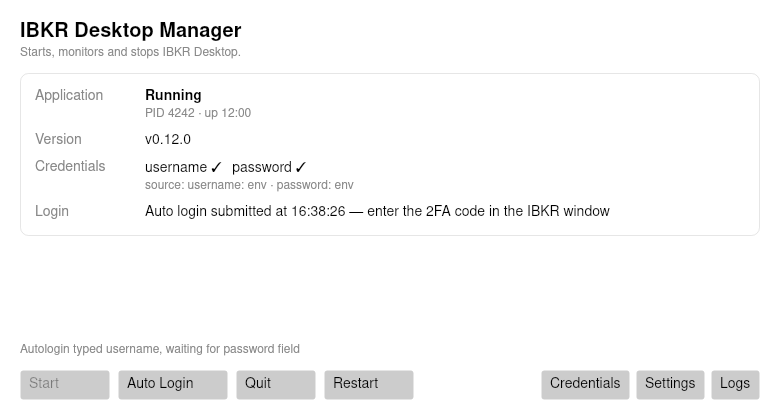
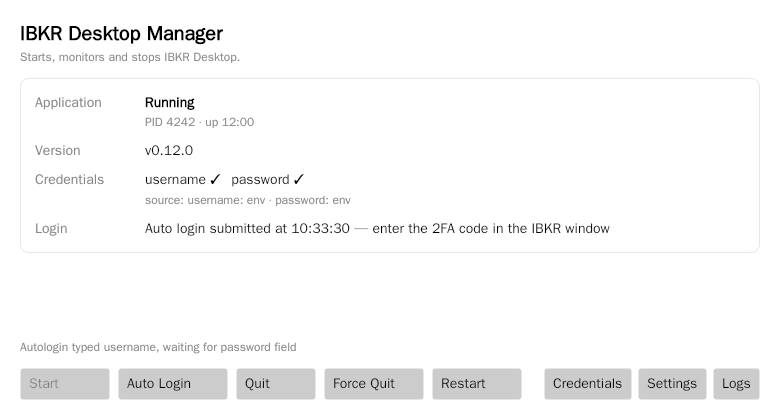
docs: graceful quit, force quit and the measured close behaviour

diff --git a/docs/design.md b/docs/design.md
@@ -167,8 +167,13 @@ runs inside the app's UI thread and gave the real app a measurable slow-down (se
   deeply. Nothing inspects the app between clicks.
 5. **Stop at 2FA**: never attempt to solve it. Report "awaiting 2FA" in the outcome of the click; the
    manager does not monitor the app afterwards.
-6. **Quit**: post `WM_CLOSE` to the main window → wait 15 s → `Kill(entireProcessTree: true)`.
-   Log which path was taken.
+6. **Quit** (`ICloseConfirmationPrompt`): post `WM_CLOSE` → wait `GracefulShutdownTimeout`; if the app
+   is still there, look for its "really quit?" dialog and press the confirming button (a window-targeted
+   click, then wait again). **Never** escalate to `TerminateProcess` — the app may still be flushing
+   state, and killing a logged-in session is exactly what the user asked us to stop doing. Staying open
+   is reported as such; `Force Quit` is the explicit termination, and `Restart` refuses rather than
+   kill. Measured on the real app: at the login screen `WM_CLOSE` exits in ~1.5 s with no dialog, so the
+   confirmation path only runs on a logged-in session (not reproducible in CI without an account).
 
 Failure policy: any injection step fails → log the reason, show an error banner, leave the app alone so
 the user can finish manually. Never retry-loop credentials (lockout risk).
@@ -204,7 +209,7 @@ IBKR Desktop Manager                                   [–][□][×]
   Credentials       Username ✓   Password ✓   (env)   [ Set up… ]
   Login state       ● Awaiting 2FA — finish in the app window
 ──────────────────────────────────────────────────────────────
-  [ Start ]  [ Auto Login ]  [ Quit ]  [ Restart ]   [ Logs ] [ ⚙ ]
+  [ Start ] [ Auto Login ] [ Quit ] [ Force Quit ] [ Restart ]   [ Logs ] [ ⚙ ]
 ──────────────────────────────────────────────────────────────
   ⚠ Auto Login blocked: IBKR_PASSWORD is not set
   last: autologin typed username, waiting for password field
@@ -216,7 +221,10 @@ IBKR Desktop Manager                                   [–][□][×]
 - `[ Set up… ]` on the credentials row opens the dialog in §7.1 (add / replace / clear / test presence).
 - Rows use green/amber/red dots; credentials row shows presence + source (`env`), never
   masked values (a mask still leaks length).
-- `Start`/`Auto Login` disabled unless the app is installed; `Quit`/`Restart` disabled when stopped.
+- `Start`/`Auto Login` disabled unless the app is installed; `Quit`, `Force Quit` and `Restart` are
+  disabled when stopped.
+- `Quit` is graceful by design and may end with the app still running (if it refuses to close);
+  `Force Quit` is the destructive one and says so in its tooltip.
 - Window-first; there is no tray icon in v0.1.0 (the window is the app), and closing the window
   exits the app — no close-to-tray surprise.
 - Settings: exe path override, env var names, login driver, timeouts, start-with-Windows.
@@ -346,7 +354,7 @@ IBKR ToS/account-lockout concerns if auto-login retries (hence no retries).
 
 ---
 
-## 11. Implementation status (v0.2.1)
+## 11. Implementation status (v0.3.0)
 
 What shipped, and where it lives:
 
@@ -361,7 +369,7 @@ What shipped, and where it lives:
 | Login drivers | `Platform.Windows/PointerLoginDriver.cs` (`pointer`: click + type, verified) → `UiaLoginDriver.cs` (`uia`: value assignment) → `SendInputLoginDriver.cs` (`sendinput`: blind typing) → `Core/ManualLoginDriver.cs`, chained by `Core/LoginDriverChain.cs` |
 | Login-form / 2FA classification (during Auto Login only) | `Core/UiAutomation.cs` (`UiClassifier`) + `Platform.Windows/UiaSession.cs` |
 | GUI | `App/Views/MainWindow.axaml`, `CredentialsWindow.axaml`, `SettingsWindow.axaml` |
-| Tests | 158 xUnit tests, including headless Skia renders of all three windows, a Windows integration suite that drives a stub app through the real platform layer, and a real-app suite run by the probe workflow |
+| Tests | 163 xUnit tests, including headless Skia renders of all three windows, a Windows integration suite that drives a stub app through the real platform layer, and a real-app suite run by the probe workflow |
 | CI / release | `.github/workflows/ci.yml`, `release.yml` |
 
 Deliberate gaps (also listed in `docs/ibkr-app-notes.md`): tray icon, start-with-Windows,

diff --git a/AGENTS.md b/AGENTS.md
@@ -8,7 +8,7 @@ that still need a real Windows install to verify.
 
 ```bash
 dotnet build                                    # whole solution (net8.0, warnings are errors)
-dotnet test                                     # 158 tests, runs on Linux/Windows/macOS
+dotnet test                                     # 163 tests, runs on Linux/Windows/macOS
 dotnet format IbkrDesktopManager.sln --verify-no-changes
 dotnet run --project src/IbkrManager.App        # needs a display; shows "Windows is required" off-Windows
 dotnet publish src/IbkrManager.App -c Release -r win-x64 --self-contained \
@@ -95,6 +95,11 @@ Facts learned the hard way (do not regress them):
   Windows mark the window "not responding", and a shutdown then stalls on a screen that needs someone
   at the console. `ShutdownHook` answers `WM_QUERYENDSESSION` and must stay the first thing that
   happens for that message; test the hook by hand on Windows (it cannot run on Linux CI).
+- `Quit` must never call `KillAsync` — it posts `WM_CLOSE`, answers the app's own confirmation
+  (`UiCloseConfirmation`, buttons only inside a *non-main* window) and reports when the app stays open.
+  `Force Quit` is the only destructive path, and `Restart` refuses instead of killing. At the login
+  screen the real app exits on `WM_CLOSE` in ~1.5 s with no dialog (measured in CI); the confirmation
+  is a logged-in-session behaviour that cannot be reproduced without an account.
 - The manager is stateless about the app's UI on purpose: status comes from the process, and the only
   UI inspection happens inside an Auto Login click. Do not reintroduce a live login/2FA/logged-in state
   machine — that is what made the real app unresponsive in 0.1.3.

diff --git a/docs/usage.md b/docs/usage.md
@@ -96,8 +96,14 @@ Set the login driver to `manual` to make Auto Login report "disabled in Settings
 
 ## 4. Quit, restart and closing the manager
 
-- **Quit** posts `WM_CLOSE`, waits 15 seconds, then terminates the process tree.
-- **Restart** = Quit + Start.
+- **Quit** asks the app to close (`WM_CLOSE`) and waits. If IBKR Desktop puts up its own confirmation —
+  it does so on a running session, not at the login screen — the manager reads the dialog, presses its
+  confirming button and waits again, so the app gets to log out and flush its state. Quit **never
+  terminates the process** on its own. If the app stays open, the manager says so and leaves it alone.
+- **Force Quit** terminates the process tree immediately. Use it when the app will not close, or when
+  you do not care about its cleanup. Nothing else in the manager kills the app.
+- **Restart** = Quit + Start. Because Quit never kills, a Restart is refused (with an explanation)
+  while the app would not close; Force Quit and then Start instead.
 - Closing the manager window stops the IBKR Desktop instance the manager started. This is deliberate:
   the app is assigned to a kill-on-close job object so a trading session cannot be left orphaned.
   If you want the app to outlive the manager, start it yourself — the manager will then attach to it

diff --git a/docs/ibkr-app-notes.md b/docs/ibkr-app-notes.md
@@ -4,6 +4,23 @@ The manager's behaviour is driven by `src/IbkrManager.Core/app-profile.json`. Ev
 observed by installing the real app on a Windows runner — see the `IBKR Desktop probe` workflow and
 `scripts/probe-ibkr.ps1`.
 
+## Closing the app (`RealCloseProbeTests`)
+
+Measured on `latest (4.0d) 20261028` at the login screen:
+
+| Step | Result |
+|---|---|
+| `PostMessage(mainWindow, WM_CLOSE)` | the process exits in ~1.5 s, **no dialog**, one window (`Qt683QWindowIcon`, title `IBKR Desktop`) |
+| `AppManager.QuitAsync()` | reports `Stopped` / "Closed gracefully" — nothing was terminated |
+
+So a close request is enough at the login screen, and the confirmation users see when clicking the X
+belongs to a **logged-in** session (a logout prompt). That dialog cannot be reproduced here (no
+account): the manager looks for a button named `Yes`/`Quit`/`Exit`/`Confirm`/`OK`
+(`quitConfirmationButtonNames`) **inside a window that is not the main window** — IBKR's QML dialogs
+have their own top-level window (the login-failure dialog proved it) — clicks it with `SendInput`
+(verified, then posted messages as the fallback) and never presses anything in the trading window.
+If the dialog cannot be operated the manager reports it and leaves the app running.
+
 ## Verified facts
 
 | Item | Value |

diff --git a/README.md b/README.md
@@ -103,7 +103,7 @@ started (that is the kill-on-close job object doing its job).
 
 ```bash
 dotnet build                       # whole solution
-dotnet test                        # 158 tests: core, platform, view models, headless UI render, Windows integration
+dotnet test                        # 163 tests: core, platform, view models, headless UI render, Windows integration
 dotnet format IbkrDesktopManager.sln --verify-no-changes
 dotnet run --project src/IbkrManager.App
 ```
